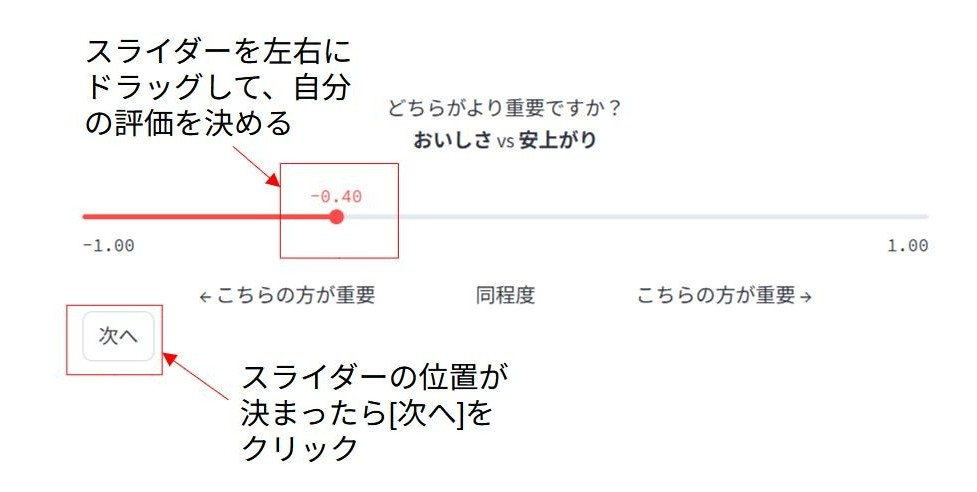
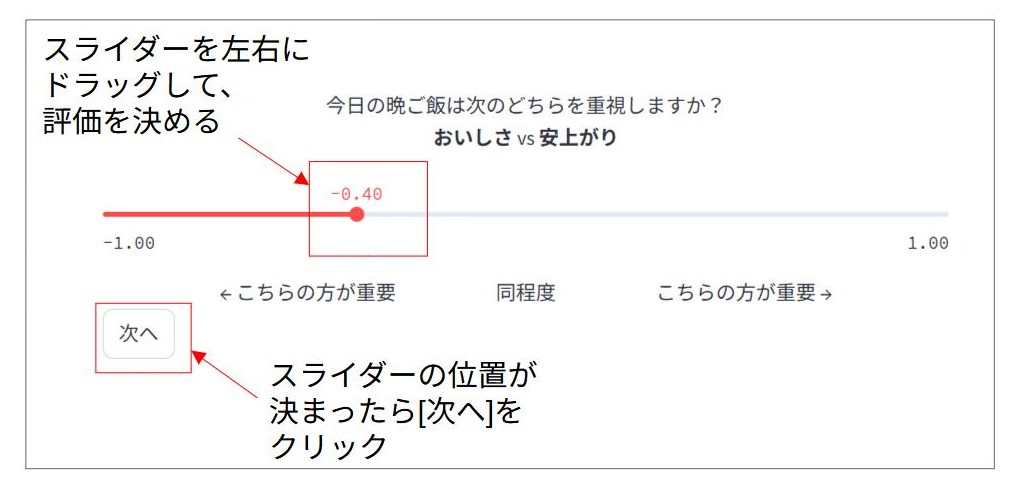
問題番号を表示するようにした。

diff --git a/app.py b/app.py
@@ -53,11 +53,11 @@ def show_start():
 # 評価基準の一対比較画面
 def show_criteria():
     with center:
-        st.title("晩ご飯に何を求めますか？")
+        st.title("Q-0")
         st.markdown(
             """
             <div style="text-align: center;">
-                どちらがより重要ですか？<br>
+                今日の晩ご飯は次のどちらを重視しますか？<br>
                 <b>おいしさ</b> vs <b>安上がり</b>
             </div>
             """,
@@ -98,7 +98,9 @@ def show_criteria():
 # 代替案の一対比較画面
 def show_alternatives():
     with center:
-        st.title("晩ご飯を評価してください")
+        st.markdown(
+            f"# Q-{st.session_state.criteria_index+1}-{st.session_state.comparison_step+1}"
+        )
     # 代替案
     alternatives = ["カレー", "野菜炒め", "すき焼き"]
     criteria = ["安上がり", "おいしさ"]
